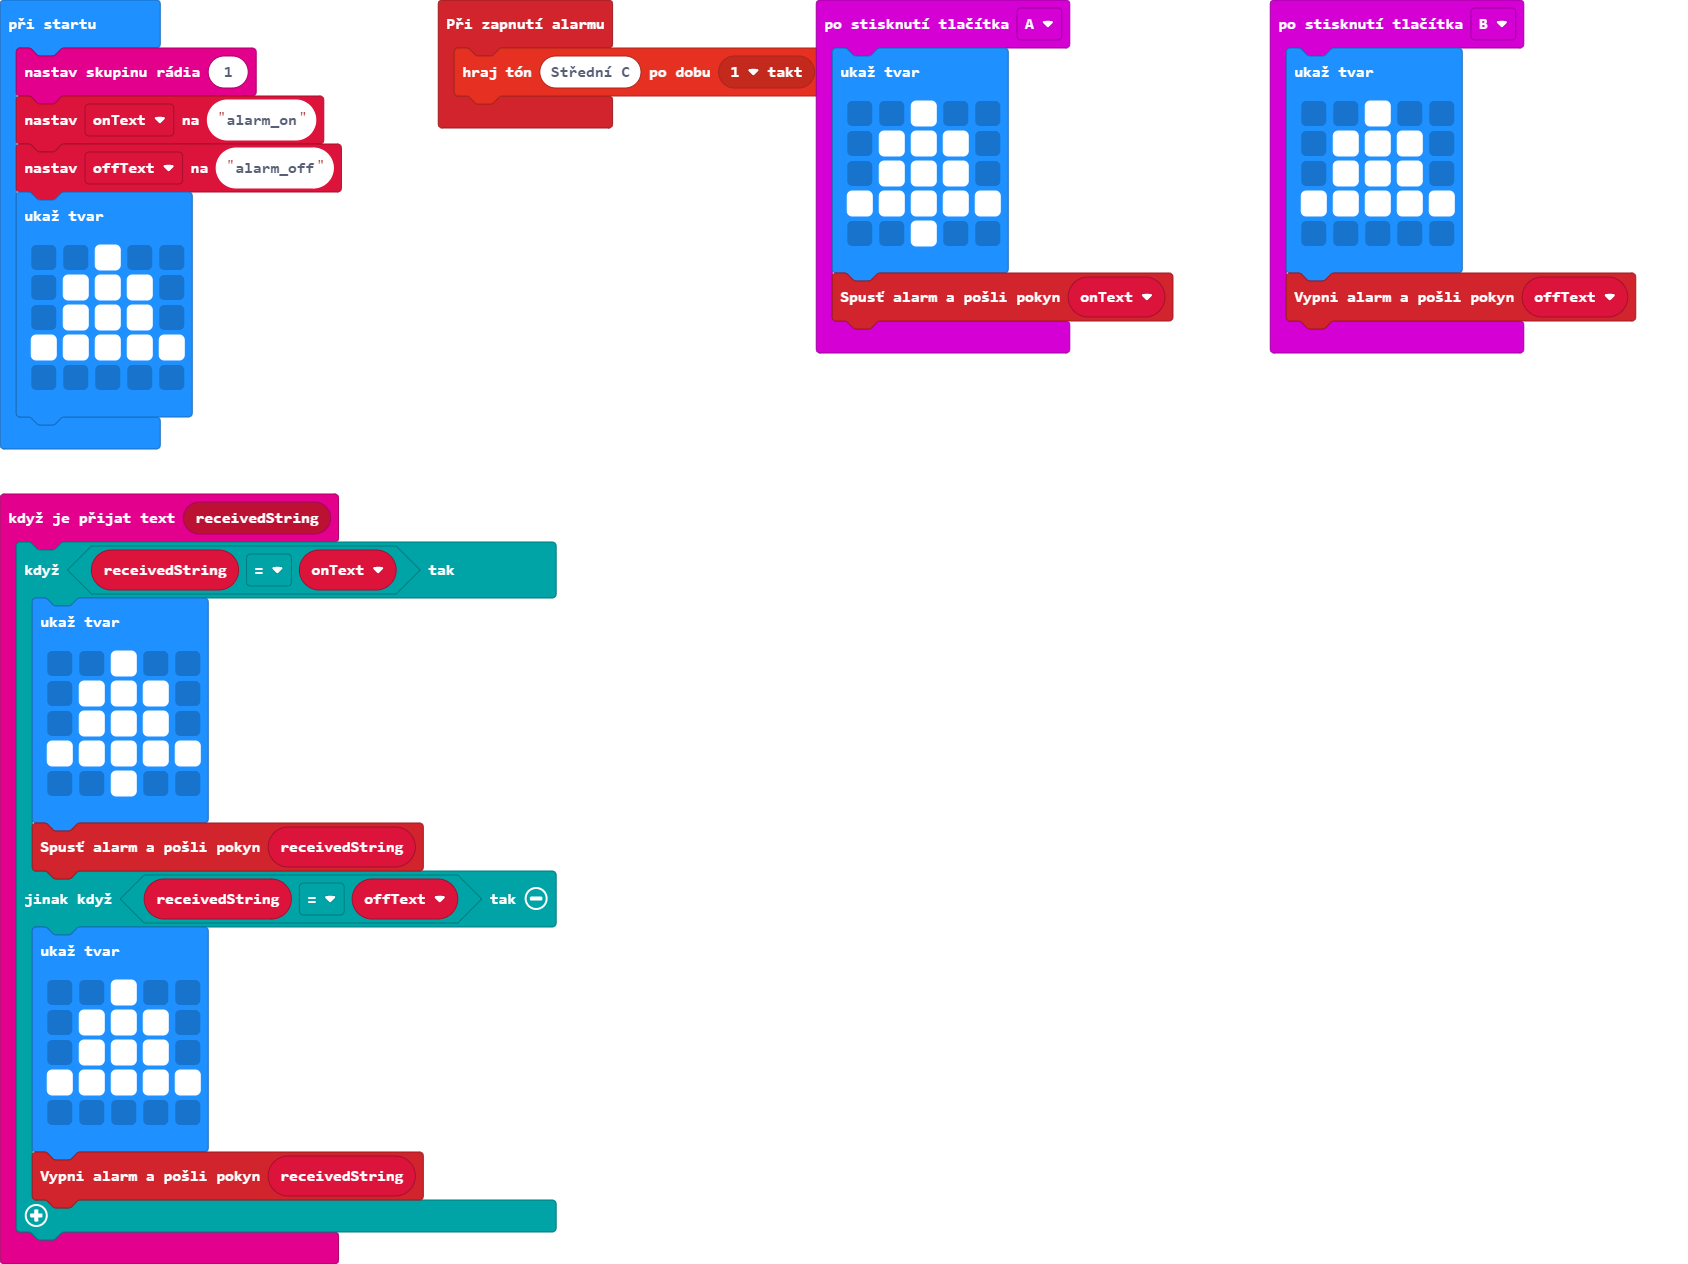
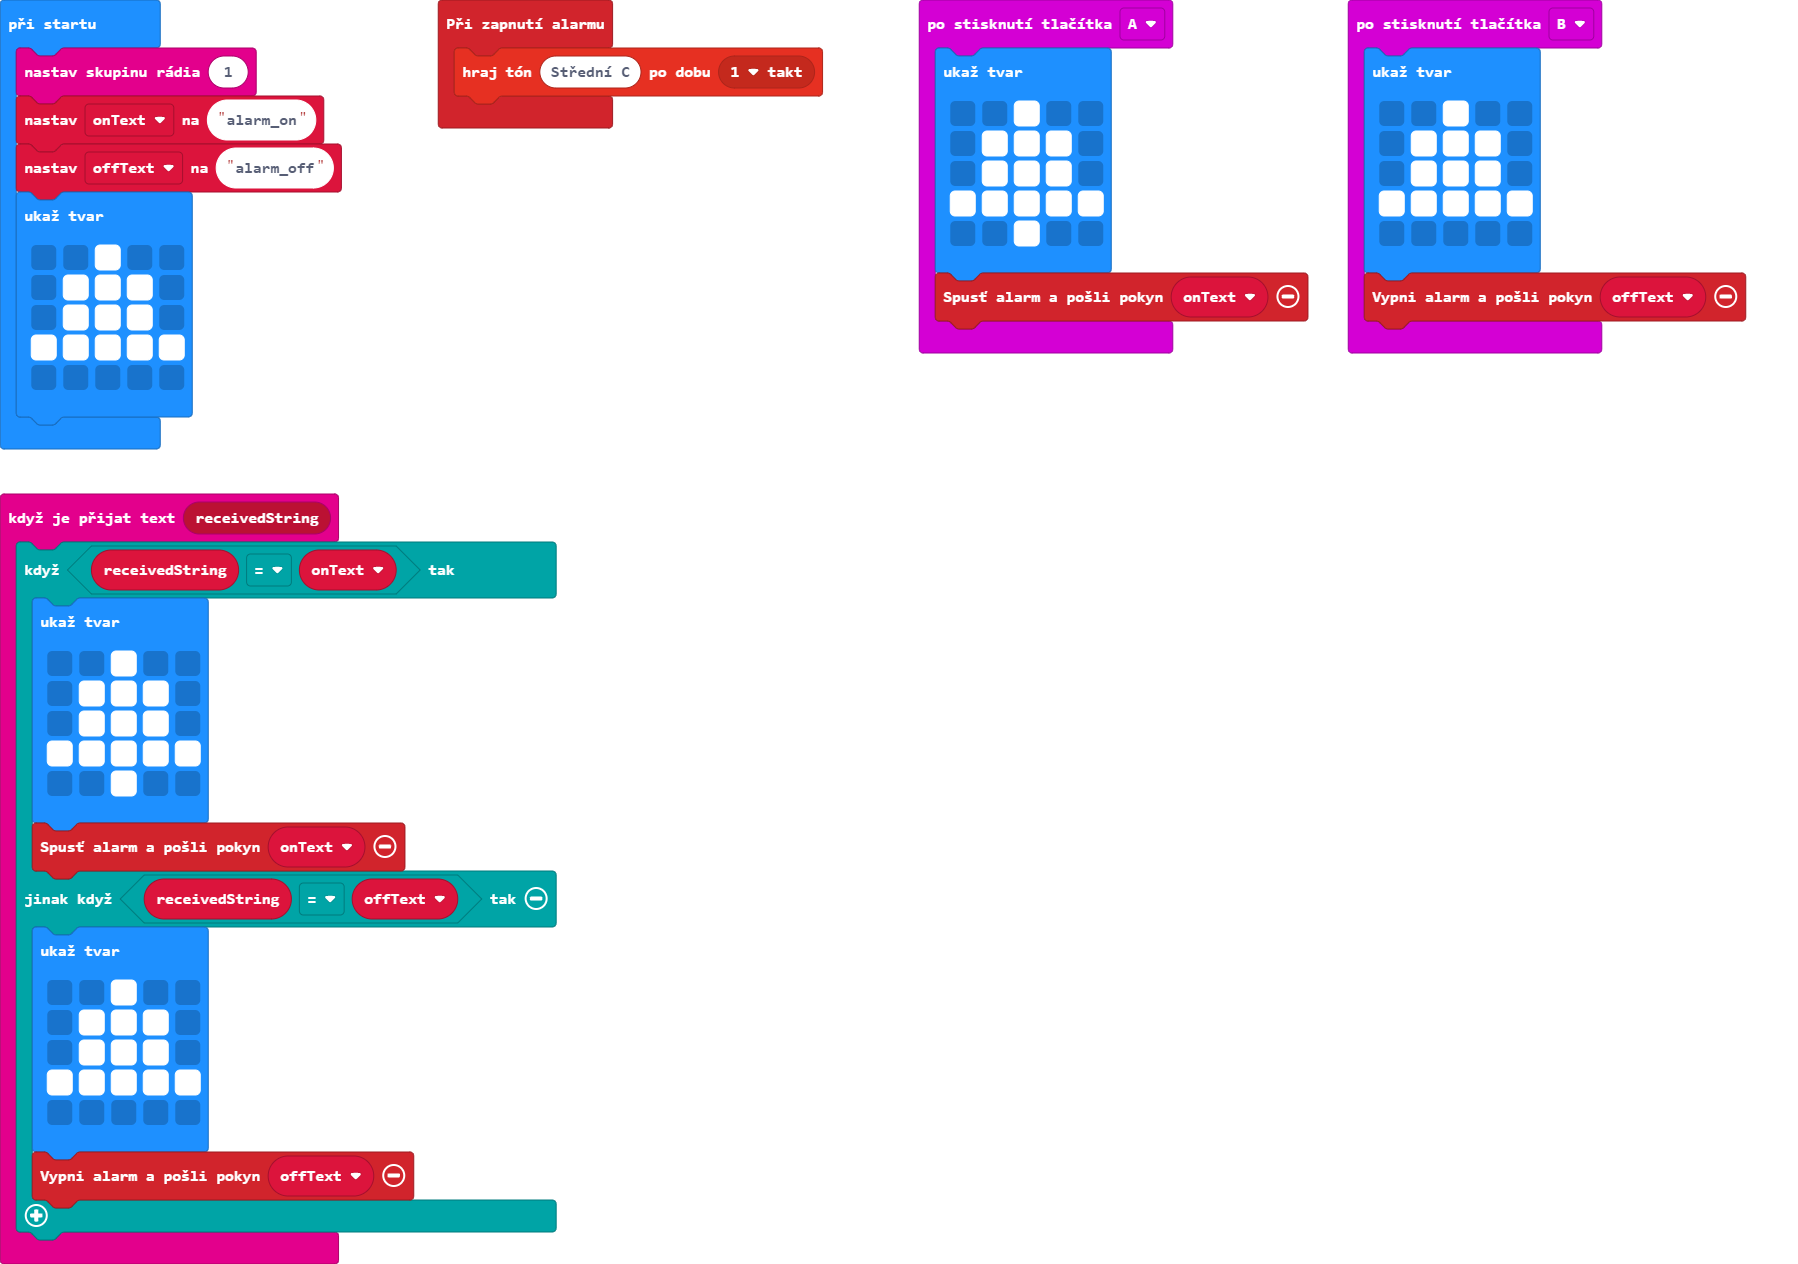
Aktualizovat pxt.json, main.blocks, main.ts, alarm.ts

diff --git a/alarm.ts b/alarm.ts
@@ -3,40 +3,12 @@ namespace alarm {
     let alarm = false
     let methodLock = false
 
-
     /**
-    * Spustí alarm a pošle všem zařízením v okolí pokyn ke spuštění alarmu
-    * @message Pokyn
-    */
-    //% block="Spusť alarm a pošli pokyn %message"
-
-    export function turnOnAlarmAndBroadcast(message: string): void {
-        if (alarm == false) {
-            radio.sendString(message)
-        }
-        alarm = true
-    }
-
-    /**
-    * Vypne alarm a pošle všem zařízením v okolí pokyn k vypnutí alarmu
-    * @message Pokyn
-    */
-    //% block="Vypni alarm a pošli pokyn %message"
-
-    export function turnOffAlarmAndBroadcast(message: string): void {
-        if (alarm == true) {
-            radio.sendString(message)
-        }
-        alarm = false
-    }
-
-
-    /**
-    * Zkontroluje, jestli nedošlo k pohybu
+    * Provede akci v moment, kdy je zapnutý alarm
     * @action Příkazy, které se provedou při moc zapnutí alarmu
     */
     //% block="Při zapnutí alarmu"
-    export function onGuardAwaken(action: () => void) {
+    export function onAlarm(action: () => void) {
         const eventID = 111 + Math.randomRange(0, 100);
 
         control.onEvent(eventID, 0, function () {
@@ -56,6 +28,61 @@ namespace alarm {
             }
         })
     }
+
+
+
+    /**
+    * Spustí alarm a pošle všem zařízením v okolí pokyn ke spuštění alarmu
+    * @message Pokyn
+    */
+    //% block="Spusť alarm a pošli pokyn || %message"
+
+    export function turnOnAlarmAndBroadcast(message?: string): void {
+        if (message == null) {
+            message = "alarm_on"
+        }
+        if (alarm == false) {
+            radio.sendString(message)
+        }
+        alarm = true
+    }
+
+    /**
+    * Vypne alarm a pošle všem zařízením v okolí pokyn k vypnutí alarmu
+    * @message Pokyn
+    */
+    //% block="Vypni alarm a pošli pokyn || %message"
+
+    export function turnOffAlarmAndBroadcast(message?: string): void {
+        if (message == null) {
+            message = "alarm_off"
+        }
+        if (alarm == true) {
+            radio.sendString(message)
+        }
+        alarm = false
+    }
+
+
+    /**
+    * Přijme pokyn od jiného zařízení, vrací true/false podle toho, jestli je alarm vypnutý nebo zapnutý
+    * @message Pokyn
+    */
+    //% block="Přijmout pokyn %message"
+
+    export function receiveBroadcast(message: string): boolean {
+        if (message == "alarm_on") {
+            turnOnAlarmAndBroadcast("alarm_on")
+        } else if (message == "alarm_off") {
+            turnOffAlarmAndBroadcast("alarm_off")
+        }
+        return alarm
+    }
+
+
+
+
+
 
 
 

diff --git a/main.ts b/main.ts
@@ -1,4 +1,4 @@
-alarm.onGuardAwaken(function () {
+alarm.onAlarm(function () {
     music.playTone(262, music.beat(BeatFraction.Whole))
 })
 input.onButtonPressed(Button.A, function () {
@@ -20,7 +20,7 @@ radio.onReceivedString(function (receivedString) {
             # # # # #
             . . # . .
             `)
-        alarm.turnOnAlarmAndBroadcast(receivedString)
+        alarm.turnOnAlarmAndBroadcast(onText)
     } else if (receivedString == offText) {
         basic.showLeds(`
             . . # . .
@@ -29,7 +29,7 @@ radio.onReceivedString(function (receivedString) {
             # # # # #
             . . . . .
             `)
-        alarm.turnOffAlarmAndBroadcast(receivedString)
+        alarm.turnOffAlarmAndBroadcast(offText)
     }
 })
 input.onButtonPressed(Button.B, function () {
